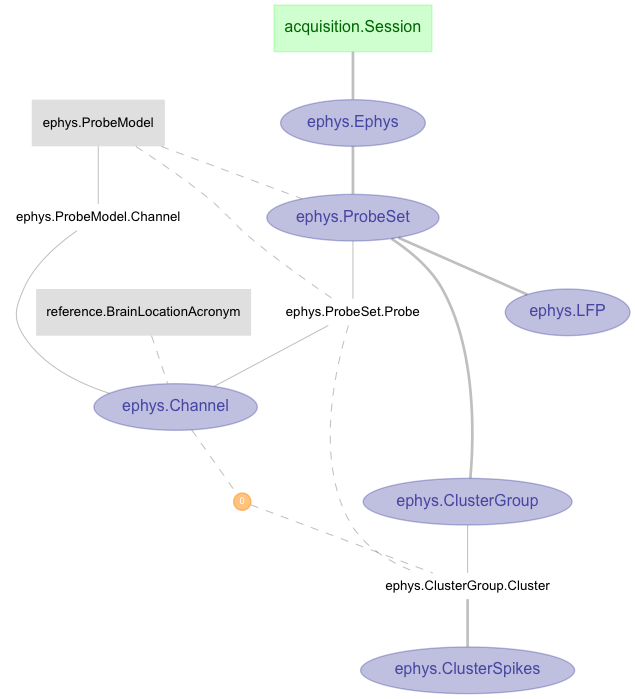
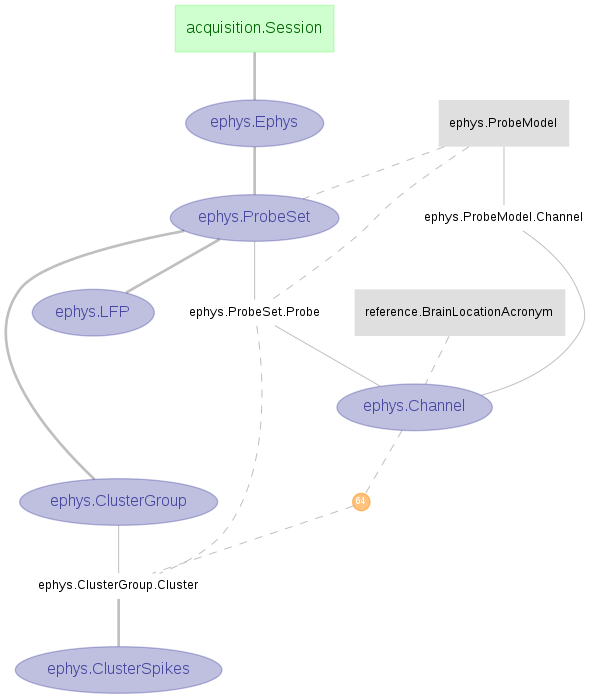
Update ERDs

diff --git a/README.md b/README.md
@@ -1,12 +1,13 @@
 # Alyx pipeline
 
-Schema of subject, reference and acquisition
+
+Schema of `subject`, `reference` and `acquisition`
 ![Subject, reference and acquisition erd](images/subject_acquisition_reference_erd.png)
 
-Schema of ephys
+Schema of `ephys`
 ![Ephys erd](images/ephys_erd.png)
 
-Schema of behavior
+Schema of `behavior`
 ![Behavior erd](images/behavior_erd.png)
 
 
